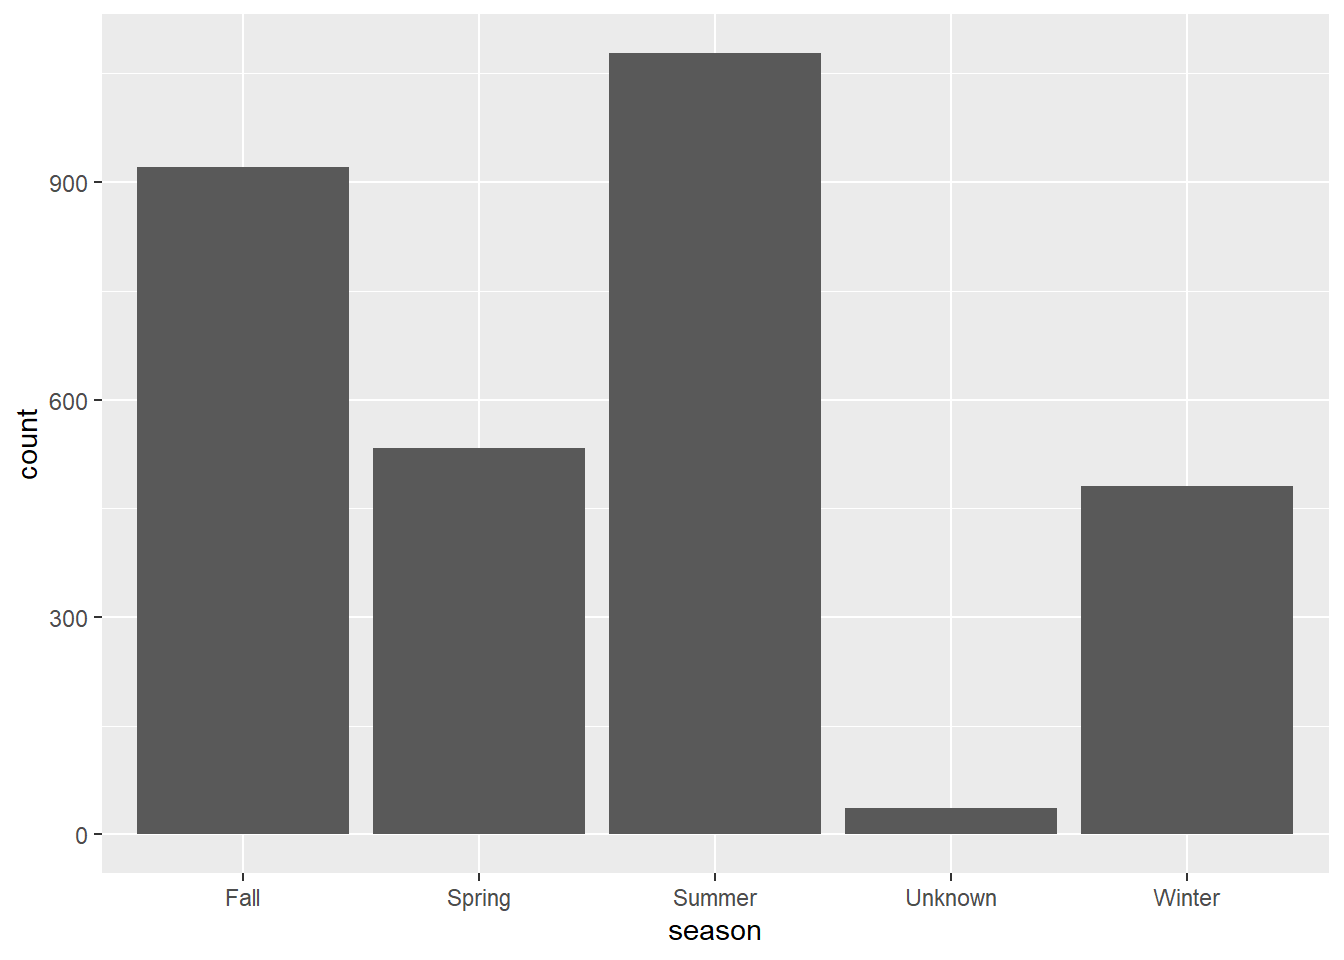
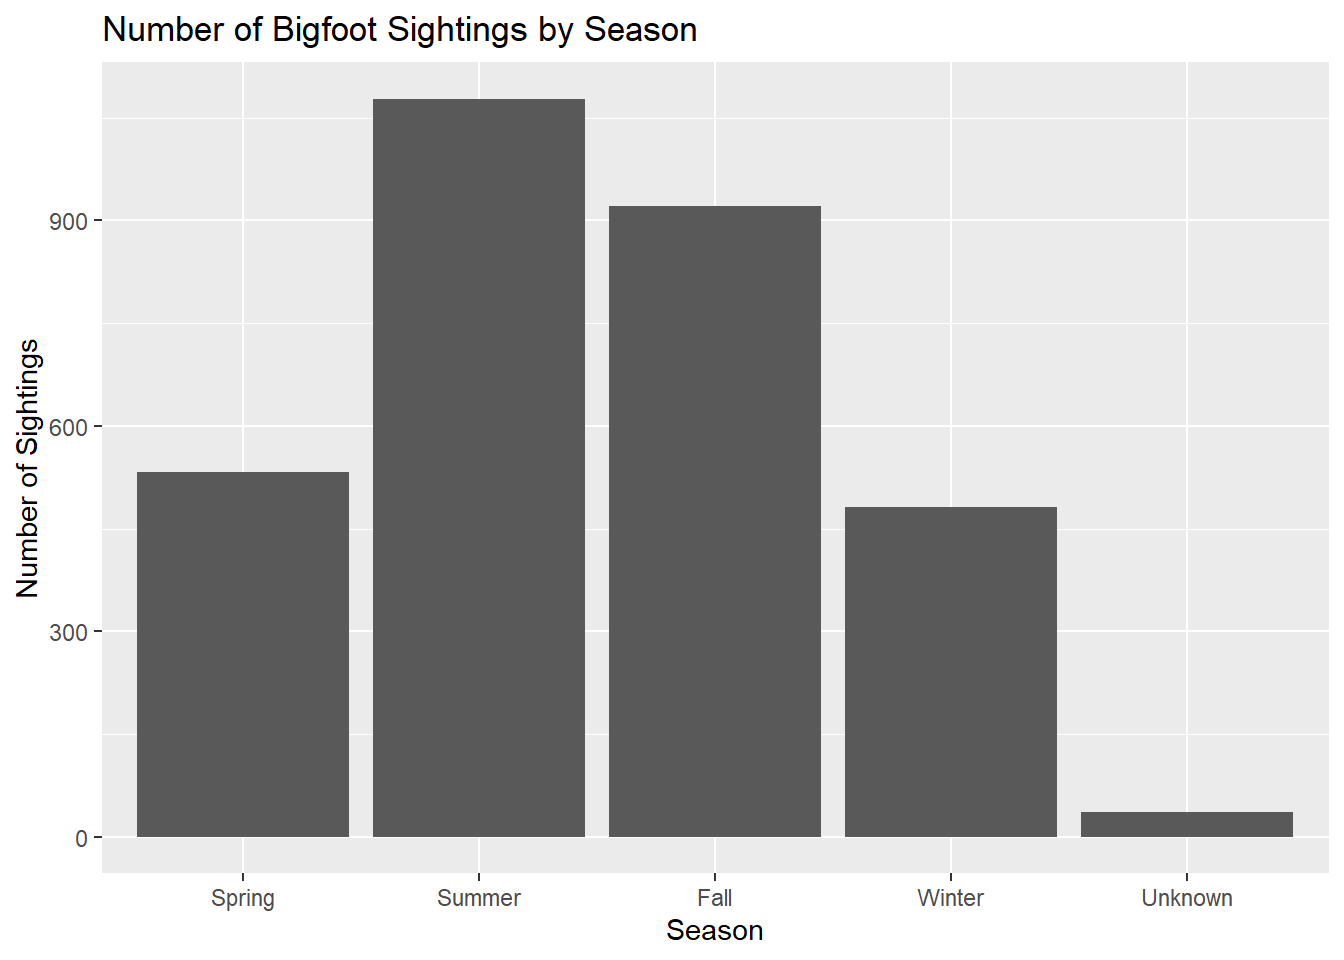
Built site for gh-pages

diff --git a/example_analysis.html b/example_analysis.html
@@ -7,7 +7,7 @@
 <meta name="viewport" content="width=device-width, initial-scale=1.0, user-scalable=yes">
 
 
-<title>Darren Lin - Example Analysis</title>
+<title>Darren Lin - Bigfoot</title>
 <style>
 code{white-space: pre-wrap;}
 span.smallcaps{font-variant: small-caps;}
@@ -152,7 +152,7 @@ code span.wa { color: #60a0b0; font-weight: bold; font-style: italic; } /* Warni
   </li>  
   <li class="nav-item">
     <a class="nav-link active" href="./example_analysis.html" aria-current="page">
- <span class="menu-text">Example Analysis</span></a>
+ <span class="menu-text">Bigfoot</span></a>
   </li>  
 </ul>
               <div id="quarto-search" class="" title="Search"></div>
@@ -165,14 +165,29 @@ code span.wa { color: #60a0b0; font-weight: bold; font-style: italic; } /* Warni
 <!-- sidebar -->
 <!-- margin-sidebar -->
     <div id="quarto-margin-sidebar" class="sidebar margin-sidebar">
-        
+        <nav id="TOC" role="doc-toc" class="toc-active">
+    <h2 id="toc-title">On this page</h2>
+   
+  <ul>
+  <li><a href="#seasons" id="toc-seasons" class="nav-link active" data-scroll-target="#seasons">Seasons</a></li>
+  <li><a href="#location" id="toc-location" class="nav-link" data-scroll-target="#location">Location</a></li>
+  <li><a href="#bigfoot-over-time" id="toc-bigfoot-over-time" class="nav-link" data-scroll-target="#bigfoot-over-time">Bigfoot Over Time</a></li>
+  <li><a href="#summary" id="toc-summary" class="nav-link" data-scroll-target="#summary">Summary</a></li>
+  <li><a href="#functions-used" id="toc-functions-used" class="nav-link" data-scroll-target="#functions-used">Functions Used</a>
+  <ul class="collapse">
+  <li><a href="#tidyr" id="toc-tidyr" class="nav-link" data-scroll-target="#tidyr">tidyr</a></li>
+  <li><a href="#dplyr" id="toc-dplyr" class="nav-link" data-scroll-target="#dplyr">dplyr</a></li>
+  <li><a href="#ggplot2" id="toc-ggplot2" class="nav-link" data-scroll-target="#ggplot2">ggplot2</a></li>
+  </ul></li>
+  </ul>
+</nav>
     </div>
 <!-- main -->
-<main class="content" id="quarto-document-content">
+<main class="content page-columns page-full" id="quarto-document-content">
 
 <header id="title-block-header" class="quarto-title-block default">
 <div class="quarto-title">
-<h1 class="title">Example Analysis</h1>
+<h1 class="title">Bigfoot</h1>
 </div>
 
 
@@ -187,6 +202,11 @@ code span.wa { color: #60a0b0; font-weight: bold; font-style: italic; } /* Warni
 
 </header>
 
+<div class="quarto-figure quarto-figure-center">
+<figure class="figure">
+<p><img src="images/bigfoot.jpg" class="img-fluid figure-img" width="437"></p>
+</figure>
+</div>
 <div class="cell">
 <div class="sourceCode cell-code" id="cb1"><pre class="sourceCode r code-with-copy"><code class="sourceCode r"><span id="cb1-1"><a href="#cb1-1" aria-hidden="true" tabindex="-1"></a><span class="fu">library</span>(tidytuesdayR)</span>
 <span id="cb1-2"><a href="#cb1-2" aria-hidden="true" tabindex="-1"></a><span class="fu">library</span>(ggplot2)</span>
@@ -195,62 +215,145 @@ code span.wa { color: #60a0b0; font-weight: bold; font-style: italic; } /* Warni
 <span id="cb1-5"><a href="#cb1-5" aria-hidden="true" tabindex="-1"></a><span class="fu">library</span>(rnaturalearth)</span>
 <span id="cb1-6"><a href="#cb1-6" aria-hidden="true" tabindex="-1"></a><span class="fu">library</span>(rnaturalearthdata)</span>
 <span id="cb1-7"><a href="#cb1-7" aria-hidden="true" tabindex="-1"></a><span class="fu">library</span>(<span class="st">"maps"</span>)</span>
-<span id="cb1-8"><a href="#cb1-8" aria-hidden="true" tabindex="-1"></a></span>
-<span id="cb1-9"><a href="#cb1-9" aria-hidden="true" tabindex="-1"></a>bigfoot_data <span class="ot">&lt;-</span> <span class="fu">tt_load</span>(<span class="st">'2022-09-13'</span>)</span></code><button title="Copy to Clipboard" class="code-copy-button"><i class="bi"></i></button></pre></div>
-<div class="cell-output cell-output-stdout">
-<pre><code>
-    Downloading file 1 of 1: `bigfoot.csv`</code></pre>
+<span id="cb1-8"><a href="#cb1-8" aria-hidden="true" tabindex="-1"></a><span class="fu">library</span>(here)</span>
+<span id="cb1-9"><a href="#cb1-9" aria-hidden="true" tabindex="-1"></a></span>
+<span id="cb1-10"><a href="#cb1-10" aria-hidden="true" tabindex="-1"></a></span>
+<span id="cb1-11"><a href="#cb1-11" aria-hidden="true" tabindex="-1"></a><span class="cf">if</span>(<span class="sc">!</span><span class="fu">file.exists</span>(<span class="st">"bigfoot_data.RDS"</span>)) {</span>
+<span id="cb1-12"><a href="#cb1-12" aria-hidden="true" tabindex="-1"></a>  bigfoot_data <span class="ot">&lt;-</span> <span class="fu">tt_load</span>(<span class="st">'2022-09-13'</span>)</span>
+<span id="cb1-13"><a href="#cb1-13" aria-hidden="true" tabindex="-1"></a>  bigfoot <span class="ot">&lt;-</span> bigfoot_data<span class="sc">$</span>bigfoot</span>
+<span id="cb1-14"><a href="#cb1-14" aria-hidden="true" tabindex="-1"></a></span>
+<span id="cb1-15"><a href="#cb1-15" aria-hidden="true" tabindex="-1"></a>  <span class="fu">saveRDS</span>(bigfoot, <span class="at">file =</span> <span class="st">"bigfoot_data.RDS"</span>)</span>
+<span id="cb1-16"><a href="#cb1-16" aria-hidden="true" tabindex="-1"></a>}</span>
+<span id="cb1-17"><a href="#cb1-17" aria-hidden="true" tabindex="-1"></a></span>
+<span id="cb1-18"><a href="#cb1-18" aria-hidden="true" tabindex="-1"></a>bigfoot <span class="ot">&lt;-</span> <span class="fu">readRDS</span>(<span class="st">"bigfoot_data.RDS"</span>)</span></code><button title="Copy to Clipboard" class="code-copy-button"><i class="bi"></i></button></pre></div>
 </div>
-<div class="sourceCode cell-code" id="cb3"><pre class="sourceCode r code-with-copy"><code class="sourceCode r"><span id="cb3-1"><a href="#cb3-1" aria-hidden="true" tabindex="-1"></a>bigfoot <span class="ot">&lt;-</span> bigfoot_data<span class="sc">$</span>bigfoot</span></code><button title="Copy to Clipboard" class="code-copy-button"><i class="bi"></i></button></pre></div>
+
+<div class="no-row-height column-margin column-container"><div class="">
+<p>Bigfoot</p>
+</div></div><p>Bigfoot has eluded cryptid hunters for decades now. The goal of this analysis is to help locate Bigfoot, with the intended audience being Bigfoot enthusiasts and other cryptid hunters. The question I’m hoping to answer is: Where is Bigfoot most likely to be spotted?</p>
+<p>This data comes from the <a href="https://github.com/rfordatascience/tidytuesday/tree/master/data/2022/2022-09-13#data-dictionary">Tidy Tuesday</a>. The original data comes from the <a href="https://www.bfro.net/">Bigfoot Field Researchers Organization</a>. The data dictionary is located <a href="https://github.com/rfordatascience/tidytuesday/tree/master/data/2022/2022-09-13#data-dictionary">here</a>.</p>
+<div class="callout-warning callout callout-style-default callout-captioned">
+<div class="callout-header d-flex align-content-center">
+<div class="callout-icon-container">
+<i class="callout-icon"></i>
 </div>
+<div class="callout-caption-container flex-fill">
+Warning
+</div>
+</div>
+<div class="callout-body-container callout-body">
+<p>Bigfoot is not real.</p>
+</div>
+</div>
+<section id="seasons" class="level1">
+<h1>Seasons</h1>
 <div class="cell">
-<div class="sourceCode cell-code" id="cb4"><pre class="sourceCode r code-with-copy"><code class="sourceCode r"><span id="cb4-1"><a href="#cb4-1" aria-hidden="true" tabindex="-1"></a>weather <span class="ot">&lt;-</span> bigfoot <span class="sc">%&gt;%</span></span>
-<span id="cb4-2"><a href="#cb4-2" aria-hidden="true" tabindex="-1"></a>  <span class="fu">select</span>(season, visibility) <span class="sc">%&gt;%</span></span>
-<span id="cb4-3"><a href="#cb4-3" aria-hidden="true" tabindex="-1"></a>  <span class="fu">drop_na</span>()</span>
-<span id="cb4-4"><a href="#cb4-4" aria-hidden="true" tabindex="-1"></a></span>
-<span id="cb4-5"><a href="#cb4-5" aria-hidden="true" tabindex="-1"></a><span class="fu">ggplot</span>(weather, <span class="fu">aes</span>(season)) <span class="sc">+</span></span>
-<span id="cb4-6"><a href="#cb4-6" aria-hidden="true" tabindex="-1"></a>  <span class="fu">geom_bar</span>()</span></code><button title="Copy to Clipboard" class="code-copy-button"><i class="bi"></i></button></pre></div>
+<div class="sourceCode cell-code" id="cb2"><pre class="sourceCode r code-with-copy"><code class="sourceCode r"><span id="cb2-1"><a href="#cb2-1" aria-hidden="true" tabindex="-1"></a>weather <span class="ot">&lt;-</span> bigfoot <span class="sc">%&gt;%</span></span>
+<span id="cb2-2"><a href="#cb2-2" aria-hidden="true" tabindex="-1"></a>  <span class="fu">select</span>(season, visibility) <span class="sc">%&gt;%</span></span>
+<span id="cb2-3"><a href="#cb2-3" aria-hidden="true" tabindex="-1"></a>  <span class="fu">replace_na</span>(<span class="fu">list</span>(<span class="at">season =</span> <span class="st">"Unknown"</span>)) <span class="sc">%&gt;%</span></span>
+<span id="cb2-4"><a href="#cb2-4" aria-hidden="true" tabindex="-1"></a>  <span class="fu">drop_na</span>()</span>
+<span id="cb2-5"><a href="#cb2-5" aria-hidden="true" tabindex="-1"></a></span>
+<span id="cb2-6"><a href="#cb2-6" aria-hidden="true" tabindex="-1"></a><span class="fu">ggplot</span>(weather, <span class="fu">aes</span>(<span class="at">x =</span> <span class="fu">factor</span>(season, <span class="fu">c</span>(<span class="st">"Spring"</span>, <span class="st">"Summer"</span>, <span class="st">"Fall"</span>, <span class="st">"Winter"</span>, <span class="st">"Unknown"</span>)))) <span class="sc">+</span></span>
+<span id="cb2-7"><a href="#cb2-7" aria-hidden="true" tabindex="-1"></a>  <span class="fu">geom_bar</span>() <span class="sc">+</span></span>
+<span id="cb2-8"><a href="#cb2-8" aria-hidden="true" tabindex="-1"></a>  <span class="co">#facet_wrap(~precip_type) +</span></span>
+<span id="cb2-9"><a href="#cb2-9" aria-hidden="true" tabindex="-1"></a>  <span class="fu">labs</span>(<span class="at">x =</span> <span class="st">"Season"</span>,</span>
+<span id="cb2-10"><a href="#cb2-10" aria-hidden="true" tabindex="-1"></a>       <span class="at">y =</span> <span class="st">"Number of Sightings"</span>,</span>
+<span id="cb2-11"><a href="#cb2-11" aria-hidden="true" tabindex="-1"></a>       <span class="at">title =</span> <span class="st">"Number of Bigfoot Sightings by Season"</span>)</span></code><button title="Copy to Clipboard" class="code-copy-button"><i class="bi"></i></button></pre></div>
 <div class="cell-output-display">
 <p><img src="example_analysis_files/figure-html/unnamed-chunk-2-1.png" class="img-fluid" width="672"></p>
 </div>
 </div>
+<p>Here we see the seasons where Bigfoot was seen the most. It’s clear that Bigfoot sightings were greatest in the summer and fall seasons, while they were lowest in the winter and spring. This suggests that Bigfoot prefers warmer seasons, or hiberates through the winter.</p>
+</section>
+<section id="location" class="level1">
+<h1>Location</h1>
 <div class="cell">
-<div class="sourceCode cell-code" id="cb5"><pre class="sourceCode r code-with-copy"><code class="sourceCode r"><span id="cb5-1"><a href="#cb5-1" aria-hidden="true" tabindex="-1"></a>location <span class="ot">&lt;-</span> bigfoot <span class="sc">%&gt;%</span></span>
-<span id="cb5-2"><a href="#cb5-2" aria-hidden="true" tabindex="-1"></a>  <span class="fu">select</span>(latitude, longitude, state) <span class="sc">%&gt;%</span></span>
-<span id="cb5-3"><a href="#cb5-3" aria-hidden="true" tabindex="-1"></a>  <span class="fu">filter</span>(state <span class="sc">!=</span> <span class="st">"Alaska"</span>, state <span class="sc">!=</span> <span class="st">"Hawaii"</span>) <span class="sc">%&gt;%</span></span>
-<span id="cb5-4"><a href="#cb5-4" aria-hidden="true" tabindex="-1"></a>  <span class="fu">distinct</span>() <span class="sc">%&gt;%</span></span>
-<span id="cb5-5"><a href="#cb5-5" aria-hidden="true" tabindex="-1"></a>  <span class="fu">drop_na</span>()</span>
-<span id="cb5-6"><a href="#cb5-6" aria-hidden="true" tabindex="-1"></a></span>
-<span id="cb5-7"><a href="#cb5-7" aria-hidden="true" tabindex="-1"></a>MainStates <span class="ot">&lt;-</span> <span class="fu">map_data</span>(<span class="st">"state"</span>)</span>
-<span id="cb5-8"><a href="#cb5-8" aria-hidden="true" tabindex="-1"></a><span class="fu">ggplot</span>() <span class="sc">+</span> </span>
-<span id="cb5-9"><a href="#cb5-9" aria-hidden="true" tabindex="-1"></a>  <span class="fu">geom_polygon</span>(<span class="at">data=</span>MainStates, <span class="fu">aes</span>(<span class="at">x=</span>long, <span class="at">y=</span>lat, <span class="at">group=</span>group),</span>
-<span id="cb5-10"><a href="#cb5-10" aria-hidden="true" tabindex="-1"></a>                <span class="at">color=</span><span class="st">"black"</span>, <span class="at">fill=</span><span class="st">"lightblue"</span> ) <span class="sc">+</span></span>
-<span id="cb5-11"><a href="#cb5-11" aria-hidden="true" tabindex="-1"></a>  <span class="fu">geom_point</span>(<span class="at">data =</span> location, <span class="fu">aes</span>(<span class="at">x =</span> longitude, <span class="at">y =</span> latitude), <span class="at">size =</span> <span class="dv">1</span>, </span>
-<span id="cb5-12"><a href="#cb5-12" aria-hidden="true" tabindex="-1"></a>        <span class="at">shape =</span> <span class="dv">23</span>, <span class="at">fill =</span> <span class="st">"darkred"</span>) <span class="sc">+</span></span>
-<span id="cb5-13"><a href="#cb5-13" aria-hidden="true" tabindex="-1"></a>  <span class="fu">coord_sf</span>(<span class="at">xlim =</span> <span class="fu">c</span>(<span class="sc">-</span><span class="dv">125</span>, <span class="sc">-</span><span class="dv">70</span>), <span class="at">ylim =</span> <span class="fu">c</span>(<span class="dv">25</span>, <span class="dv">50</span>))</span></code><button title="Copy to Clipboard" class="code-copy-button"><i class="bi"></i></button></pre></div>
+<div class="sourceCode cell-code" id="cb3"><pre class="sourceCode r code-with-copy"><code class="sourceCode r"><span id="cb3-1"><a href="#cb3-1" aria-hidden="true" tabindex="-1"></a>location <span class="ot">&lt;-</span> bigfoot <span class="sc">%&gt;%</span></span>
+<span id="cb3-2"><a href="#cb3-2" aria-hidden="true" tabindex="-1"></a>  <span class="fu">distinct</span>() <span class="sc">%&gt;%</span></span>
+<span id="cb3-3"><a href="#cb3-3" aria-hidden="true" tabindex="-1"></a>  <span class="fu">select</span>(latitude, longitude, state) <span class="sc">%&gt;%</span></span>
+<span id="cb3-4"><a href="#cb3-4" aria-hidden="true" tabindex="-1"></a>  <span class="fu">filter</span>(state <span class="sc">!=</span> <span class="st">"Alaska"</span>, state <span class="sc">!=</span> <span class="st">"Hawaii"</span>) <span class="sc">%&gt;%</span></span>
+<span id="cb3-5"><a href="#cb3-5" aria-hidden="true" tabindex="-1"></a>  <span class="fu">drop_na</span>()</span>
+<span id="cb3-6"><a href="#cb3-6" aria-hidden="true" tabindex="-1"></a></span>
+<span id="cb3-7"><a href="#cb3-7" aria-hidden="true" tabindex="-1"></a>MainStates <span class="ot">&lt;-</span> <span class="fu">map_data</span>(<span class="st">"state"</span>)</span>
+<span id="cb3-8"><a href="#cb3-8" aria-hidden="true" tabindex="-1"></a><span class="fu">ggplot</span>() <span class="sc">+</span> </span>
+<span id="cb3-9"><a href="#cb3-9" aria-hidden="true" tabindex="-1"></a>  <span class="fu">geom_polygon</span>(<span class="at">data=</span>MainStates, <span class="fu">aes</span>(<span class="at">x=</span>long, <span class="at">y=</span>lat, <span class="at">group=</span>group),</span>
+<span id="cb3-10"><a href="#cb3-10" aria-hidden="true" tabindex="-1"></a>                <span class="at">color=</span><span class="st">"black"</span>, <span class="at">fill=</span><span class="st">"lightblue"</span> ) <span class="sc">+</span></span>
+<span id="cb3-11"><a href="#cb3-11" aria-hidden="true" tabindex="-1"></a>  <span class="fu">geom_point</span>(<span class="at">data =</span> location, <span class="fu">aes</span>(<span class="at">x =</span> longitude, <span class="at">y =</span> latitude), <span class="at">size =</span> <span class="dv">1</span>, </span>
+<span id="cb3-12"><a href="#cb3-12" aria-hidden="true" tabindex="-1"></a>        <span class="at">shape =</span> <span class="dv">23</span>, <span class="at">fill =</span> <span class="st">"darkred"</span>) <span class="sc">+</span></span>
+<span id="cb3-13"><a href="#cb3-13" aria-hidden="true" tabindex="-1"></a>  <span class="fu">coord_sf</span>(<span class="at">xlim =</span> <span class="fu">c</span>(<span class="sc">-</span><span class="dv">123</span>, <span class="sc">-</span><span class="dv">69</span>), <span class="at">ylim =</span> <span class="fu">c</span>(<span class="dv">25</span>, <span class="dv">50</span>)) <span class="sc">+</span></span>
+<span id="cb3-14"><a href="#cb3-14" aria-hidden="true" tabindex="-1"></a>  <span class="fu">labs</span>(<span class="at">x =</span> <span class="st">"Longitude"</span>,</span>
+<span id="cb3-15"><a href="#cb3-15" aria-hidden="true" tabindex="-1"></a>       <span class="at">y =</span> <span class="st">"Latitude"</span>,</span>
+<span id="cb3-16"><a href="#cb3-16" aria-hidden="true" tabindex="-1"></a>       <span class="at">title =</span> <span class="st">"Bigfoot Sighting Locations in the Continental United States"</span>)</span></code><button title="Copy to Clipboard" class="code-copy-button"><i class="bi"></i></button></pre></div>
 <div class="cell-output-display">
 <p><img src="example_analysis_files/figure-html/unnamed-chunk-3-1.png" class="img-fluid" width="672"></p>
 </div>
 </div>
+<p>Here we see the locations of the various sightings around the United States. Most sightings seem to congregate along the coasts.</p>
+</section>
+<section id="bigfoot-over-time" class="level1">
+<h1>Bigfoot Over Time</h1>
 <div class="cell">
-<div class="sourceCode cell-code" id="cb6"><pre class="sourceCode r code-with-copy"><code class="sourceCode r"><span id="cb6-1"><a href="#cb6-1" aria-hidden="true" tabindex="-1"></a>location <span class="ot">&lt;-</span> bigfoot <span class="sc">%&gt;%</span></span>
-<span id="cb6-2"><a href="#cb6-2" aria-hidden="true" tabindex="-1"></a>  <span class="fu">select</span>(state) <span class="sc">%&gt;%</span></span>
-<span id="cb6-3"><a href="#cb6-3" aria-hidden="true" tabindex="-1"></a>  <span class="fu">count</span>(state, <span class="at">sort =</span> <span class="cn">TRUE</span>) </span>
-<span id="cb6-4"><a href="#cb6-4" aria-hidden="true" tabindex="-1"></a><span class="fu">head</span>(location)</span></code><button title="Copy to Clipboard" class="code-copy-button"><i class="bi"></i></button></pre></div>
-<div class="cell-output cell-output-stdout">
-<pre><code># A tibble: 6 × 2
-  state          n
-  &lt;chr&gt;      &lt;int&gt;
-1 Washington   601
-2 California   417
-3 Ohio         303
-4 Florida      302
-5 Oregon       249
-6 Illinois     237</code></pre>
+<div class="sourceCode cell-code" id="cb4"><pre class="sourceCode r code-with-copy"><code class="sourceCode r"><span id="cb4-1"><a href="#cb4-1" aria-hidden="true" tabindex="-1"></a>sighting_date <span class="ot">&lt;-</span> bigfoot <span class="sc">%&gt;%</span></span>
+<span id="cb4-2"><a href="#cb4-2" aria-hidden="true" tabindex="-1"></a>  <span class="fu">select</span>(date, classification) <span class="sc">%&gt;%</span></span>
+<span id="cb4-3"><a href="#cb4-3" aria-hidden="true" tabindex="-1"></a>  <span class="fu">rename</span>(<span class="at">class =</span> classification) <span class="sc">%&gt;%</span></span>
+<span id="cb4-4"><a href="#cb4-4" aria-hidden="true" tabindex="-1"></a>  <span class="fu">drop_na</span>()</span>
+<span id="cb4-5"><a href="#cb4-5" aria-hidden="true" tabindex="-1"></a></span>
+<span id="cb4-6"><a href="#cb4-6" aria-hidden="true" tabindex="-1"></a></span>
+<span id="cb4-7"><a href="#cb4-7" aria-hidden="true" tabindex="-1"></a><span class="fu">ggplot</span>(sighting_date, <span class="fu">aes</span>(<span class="at">x =</span> date)) <span class="sc">+</span></span>
+<span id="cb4-8"><a href="#cb4-8" aria-hidden="true" tabindex="-1"></a>  <span class="fu">geom_histogram</span>() <span class="sc">+</span></span>
+<span id="cb4-9"><a href="#cb4-9" aria-hidden="true" tabindex="-1"></a>  <span class="fu">facet_wrap</span>(<span class="sc">~</span>class) <span class="sc">+</span></span>
+<span id="cb4-10"><a href="#cb4-10" aria-hidden="true" tabindex="-1"></a>  <span class="fu">labs</span>(<span class="at">x =</span> <span class="st">"Date"</span>,</span>
+<span id="cb4-11"><a href="#cb4-11" aria-hidden="true" tabindex="-1"></a>       <span class="at">y =</span> <span class="st">"Counts of Bigfoot Sightings"</span>,</span>
+<span id="cb4-12"><a href="#cb4-12" aria-hidden="true" tabindex="-1"></a>       <span class="at">title =</span> <span class="st">"Bigfoot Sightings Over Time by Sighting Classification"</span>)</span></code><button title="Copy to Clipboard" class="code-copy-button"><i class="bi"></i></button></pre></div>
+<div class="cell-output cell-output-stderr">
+<pre><code>`stat_bin()` using `bins = 30`. Pick better value with `binwidth`.</code></pre>
+</div>
+<div class="cell-output-display">
+<p><img src="example_analysis_files/figure-html/Time-1.png" class="img-fluid" width="672"></p>
 </div>
 </div>
+<p>Finally see have Bigfoot sightings over time split up by classification. Class A sightings are where the sightings are clear and where it’s difficult to mistake Bigfoot for another animal. Class B sightings are sightings that occur from a distance and did not offer a clear view, but are still confidently Bigfoot. Class C sightings are second-hand and third-hand reports of Bigfoot and may be inaccurate. We see that Most sightings are Class A and B.</p>
+<div class="callout-note callout callout-style-default callout-captioned">
+<div class="callout-header d-flex align-content-center">
+<div class="callout-icon-container">
+<i class="callout-icon"></i>
+</div>
+<div class="callout-caption-container flex-fill">
+Note
+</div>
+</div>
+<div class="callout-body-container callout-body">
+<p>Many have claimed that evidence of Bigfoot sightings have gone down, especially with the improvement of cameras and the internet which has made it harder to fake blurry photos. It’s clear from this graph that this is not the case. In fact, Bigfoot sightings have increased over time!</p>
+</div>
+</div>
+</section>
+<section id="summary" class="level1">
+<h1>Summary</h1>
+<p>These graphs and charts give better idea of what kind of creature Bigfoot is and when and where to find it. From the first chart, Bigfoot seems to be a creature that enjoys warmer weather. It may even hibernate through the winter. The map plot indicates that Bigfoot is more likely to be found along the coasts, possibly along areas with more trees and forest. Finally, the third graph indicates that Bigfoot was not just a fluke from blurry photographs, but is indeed still present in the current day with many clear sightings.</p>
+</section>
+<section id="functions-used" class="level1">
+<h1>Functions Used</h1>
+<section id="tidyr" class="level2">
+<h2 class="anchored" data-anchor-id="tidyr">tidyr</h2>
+<p><code>select()</code></p>
+<p><code>replace_na()</code></p>
+<p><code>drop_na()</code></p>
+</section>
+<section id="dplyr" class="level2">
+<h2 class="anchored" data-anchor-id="dplyr">dplyr</h2>
+<p><code>distinct()</code></p>
+<p><code>rename()</code></p>
+</section>
+<section id="ggplot2" class="level2">
+<h2 class="anchored" data-anchor-id="ggplot2">ggplot2</h2>
+<p><code>geom_bar()</code></p>
+<p><code>geom_polygon()</code></p>
+<p><code>geom_point()</code></p>
+<p><code>geom_histogram()</code></p>
 
 
+</section>
+</section>
 
 </main> <!-- /main -->
 <script id="quarto-html-after-body" type="application/javascript">

diff --git a/about.html b/about.html
@@ -89,7 +89,7 @@ ul.task-list li input[type="checkbox"] {
   </li>  
   <li class="nav-item">
     <a class="nav-link" href="./example_analysis.html">
- <span class="menu-text">Example Analysis</span></a>
+ <span class="menu-text">Bigfoot</span></a>
   </li>  
 </ul>
               <div id="quarto-search" class="" title="Search"></div>
@@ -125,7 +125,7 @@ ul.task-list li input[type="checkbox"] {
 </header>
 
 <p>My name is Darren Lin. I’m a first year master’s student in the biostatistics department at Johns Hopkins University. I was also an undergraduate at Johns Hopkins, where I majored in applied mathematics and public health.</p>
-<p>In my free time, I enjoy exploring Baltimore and trying new things. I recently got into bouldering, which is really fun!</p>
+<p>I’m originally from Southern California, but moved to Baltimore for my undergrad. In my free time, I enjoy exploring Baltimore and trying new things. I recently got into bouldering, which is really fun!</p>
 
 
 

diff --git a/index.html b/index.html
@@ -89,7 +89,7 @@ ul.task-list li input[type="checkbox"] {
   </li>  
   <li class="nav-item">
     <a class="nav-link" href="./example_analysis.html">
- <span class="menu-text">Example Analysis</span></a>
+ <span class="menu-text">Bigfoot</span></a>
   </li>  
 </ul>
               <div id="quarto-search" class="" title="Search"></div>
@@ -125,7 +125,11 @@ ul.task-list li input[type="checkbox"] {
 </header>
 
 <p>My name is Darren Lin. I’m a first year master’s student in the biostatistics department at Johns Hopkins University.</p>
-<p><img src="images/darren_bike.png" class="img-fluid"></p>
+<div class="quarto-figure quarto-figure-center">
+<figure class="figure">
+<p><img src="images/darren_bike.png" class="img-fluid figure-img" width="465"></p>
+</figure>
+</div>
 
 
 
